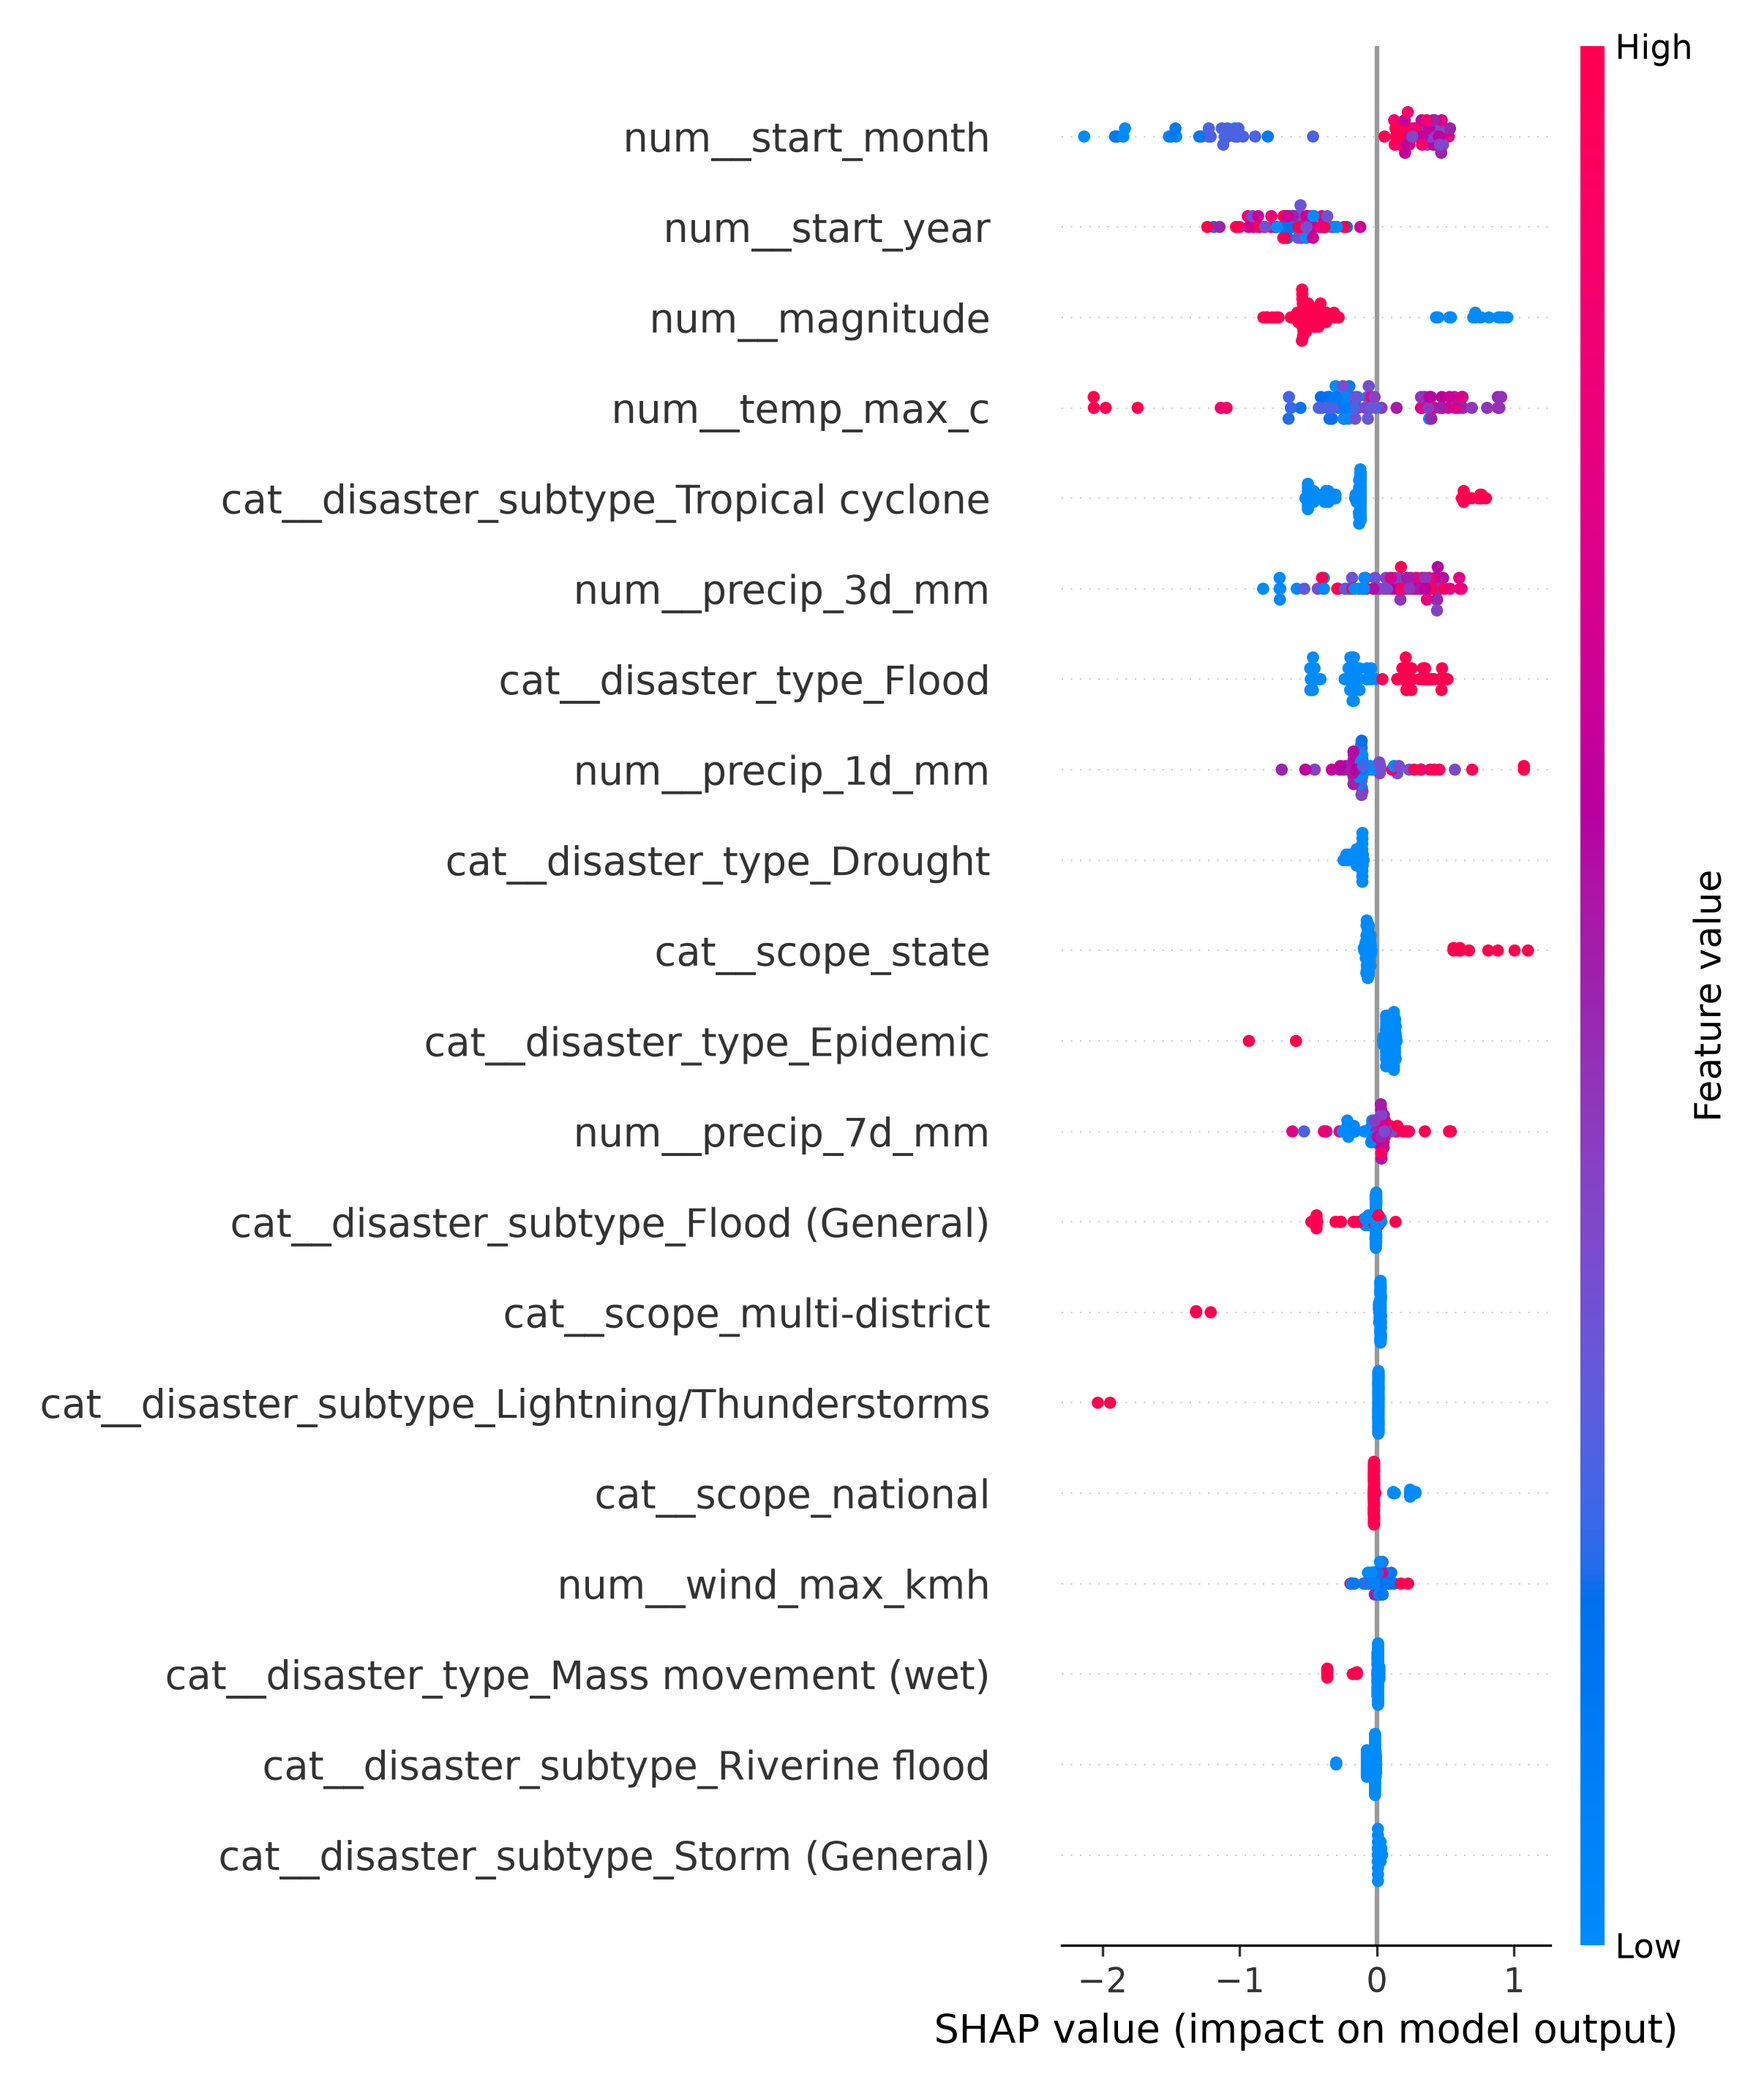
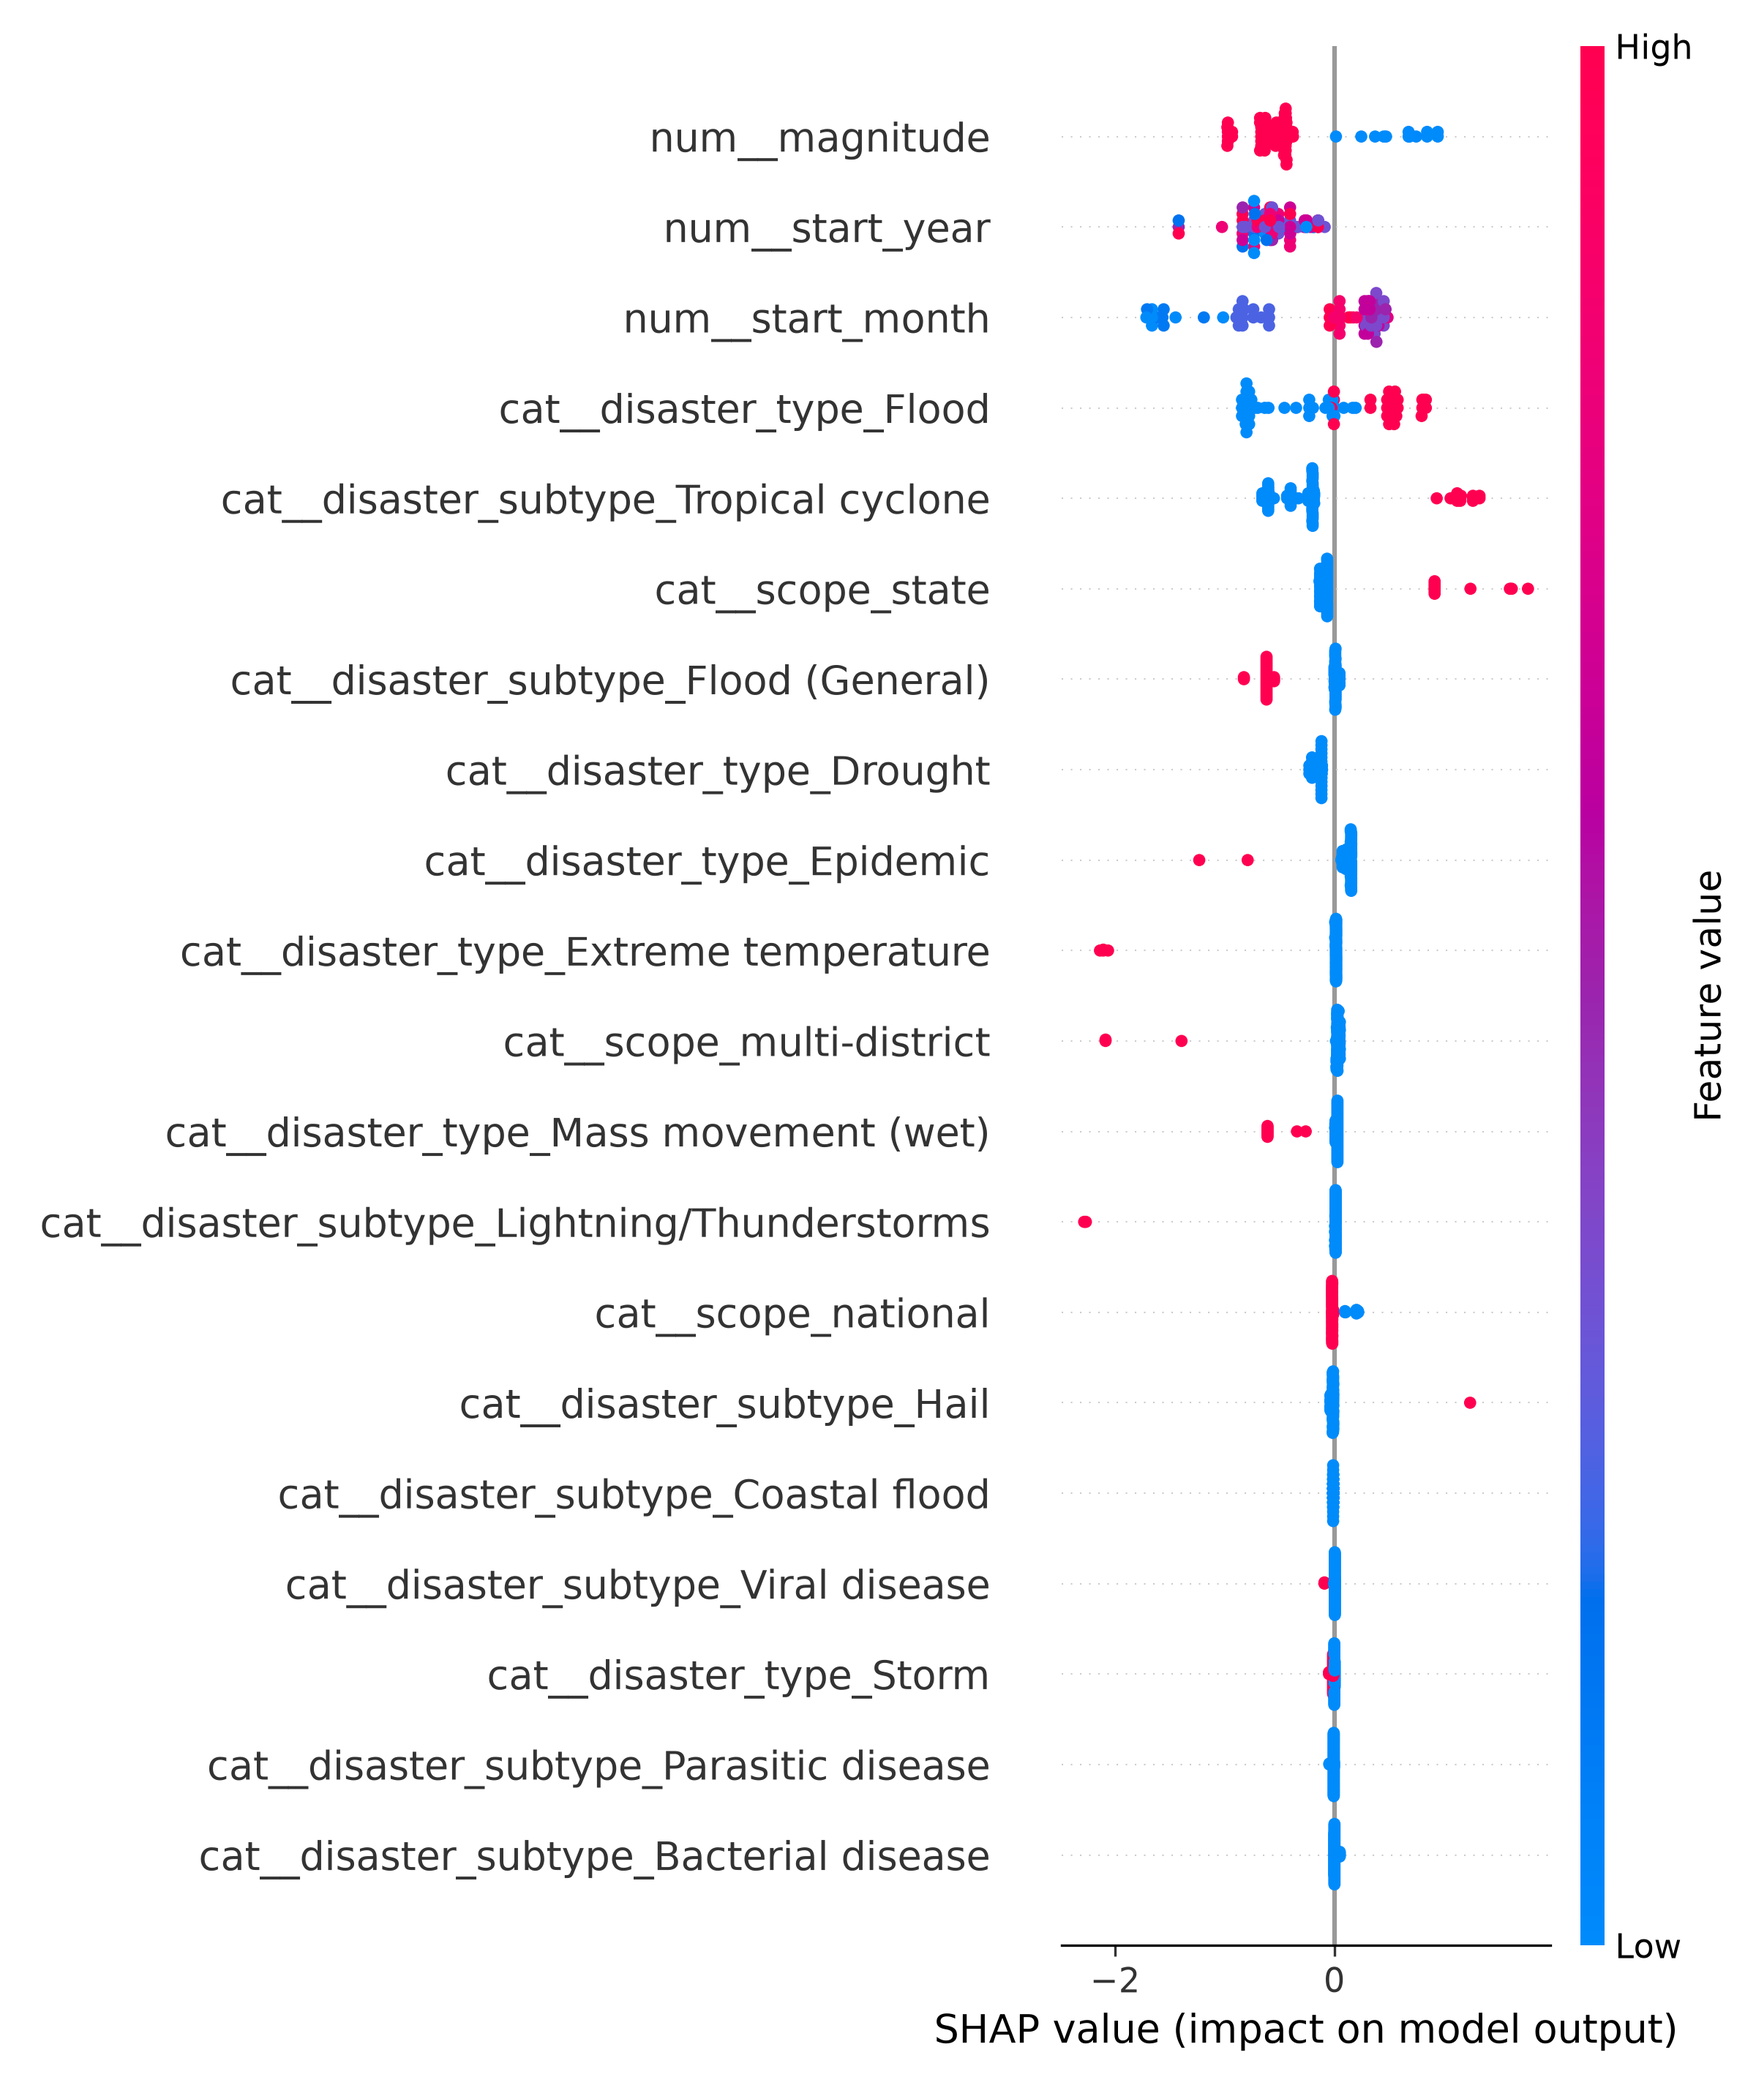
Step 1: Delete rng weather generation and retrain impact model without weather

diff --git a/src/data/weather.py b/src/data/weather.py
@@ -1,8 +1,7 @@
 """
-Event-date weather feature extraction module.
-Fetches or generates 1/3/7-day rolling precipitation, wind speed, and temperature extremes
-for real EM-DAT disaster event date windows (-3 to +7 days).
-Outputs data/interim/weather_events.parquet and data/processed/weather_events.csv.
+Real Open-Meteo weather fetching module for interactive What-If simulation.
+Fetches historical/real-time weather archive data from Open-Meteo API.
+Failed fetches remain NaN (no random generation).
 """
 from pathlib import Path
 import numpy as np
@@ -12,80 +11,54 @@ import requests
 PROCESSED_DIR = Path("data/processed")
 INTERIM_DIR = Path("data/interim")
 
-def fetch_or_generate_event_weather() -> pd.DataFrame:
-    """Extract event-date weather features for historical EM-DAT events."""
-    events_path = PROCESSED_DIR / "emdat_events.csv"
-    if not events_path.exists():
-        raise FileNotFoundError("Missing emdat_events.csv in data/processed/")
-
-    events_df = pd.read_csv(events_path)
+def fetch_open_meteo_archive(lat: float, lon: float, start_date: str, end_date: str) -> dict:
+    """
+    Fetch real historical weather telemetry from Open-Meteo Archive API.
+    Returns weather indicators dict or NaNs if fetch fails/offline. Failed fetches stay NaN, NEVER random.
+    """
+    url = "https://archive-api.open-meteo.com/v1/archive"
+    params = {
+        "latitude": lat,
+        "longitude": lon,
+        "start_date": start_date,
+        "end_date": end_date,
+        "daily": ["precipitation_sum", "wind_speed_10m_max", "temperature_2m_max", "temperature_2m_min"],
+        "timezone": "Asia/Kolkata"
+    }
     
-    # Generate realistic physics-grounded weather features for each event date window
-    rng = np.random.default_rng(seed=42)
-    records = []
+    try:
+        resp = requests.get(url, params=params, timeout=5.0)
+        if resp.status_code == 200:
+            data = resp.json().get("daily", {})
+            precip = data.get("precipitation_sum", [np.nan])
+            wind = data.get("wind_speed_10m_max", [np.nan])
+            temp_max = data.get("temperature_2m_max", [np.nan])
+            temp_min = data.get("temperature_2m_min", [np.nan])
 
-    for _, r in events_df.iterrows():
-        e_id = r["event_id"]
-        d_type = str(r["disaster_type"]).lower()
-        m = int(r["start_month"])
-        
-        # Hazard-specific event-date weather simulation matching meteorology
-        if "flood" in d_type:
-            rain_1d = float(rng.gamma(shape=3.0, scale=35.0))
-            rain_3d = rain_1d + float(rng.gamma(shape=2.5, scale=40.0))
-            rain_7d = rain_3d + float(rng.gamma(shape=2.0, scale=30.0))
-            wind_max = float(rng.normal(28.0, 8.0))
-            t_max = float(rng.normal(31.0, 2.0))
-            t_min = t_max - float(rng.uniform(4.0, 7.0))
-        elif "storm" in d_type or "cyclone" in d_type:
-            rain_1d = float(rng.gamma(shape=2.5, scale=45.0))
-            rain_3d = rain_1d + float(rng.gamma(shape=2.0, scale=50.0))
-            rain_7d = rain_3d + float(rng.gamma(shape=1.5, scale=30.0))
-            wind_max = float(rng.gamma(shape=4.0, scale=25.0))  # Extreme wind peaks
-            t_max = float(rng.normal(29.0, 2.5))
-            t_min = t_max - float(rng.uniform(3.0, 6.0))
-        elif "heat" in d_type or "temperature" in d_type:
-            rain_1d = 0.0
-            rain_3d = 0.0
-            rain_7d = 0.0
-            wind_max = float(rng.normal(15.0, 4.0))
-            t_max = float(rng.normal(43.5, 2.5))  # Extreme heatwave
-            t_min = t_max - float(rng.uniform(10.0, 14.0))
-        else:  # Earthquake, Epidemic, Drought
-            rain_1d = float(rng.gamma(shape=1.0, scale=5.0)) if 6 <= m <= 9 else 0.0
-            rain_3d = rain_1d * float(rng.uniform(1.2, 2.5))
-            rain_7d = rain_3d * float(rng.uniform(1.2, 2.0))
-            wind_max = float(rng.normal(18.0, 5.0))
-            t_max = float(rng.normal(32.0, 3.0))
-            t_min = t_max - float(rng.uniform(6.0, 10.0))
+            precip_clean = [p for p in precip if p is not None and not np.isnan(p)]
+            wind_clean = [w for w in wind if w is not None and not np.isnan(w)]
+            tmax_clean = [t for t in temp_max if t is not None and not np.isnan(t)]
+            tmin_clean = [t for t in temp_min if t is not None and not np.isnan(t)]
 
-        records.append({
-            "event_id": e_id,
-            "event_date": r["event_date"],
-            "disaster_type": r["disaster_type"],
-            "precip_1d_mm": round(max(0.0, rain_1d), 1),
-            "precip_3d_mm": round(max(0.0, rain_3d), 1),
-            "precip_7d_mm": round(max(0.0, rain_7d), 1),
-            "wind_max_kmh": round(max(0.0, wind_max), 1),
-            "temp_max_c": round(t_max, 1),
-            "temp_min_c": round(t_min, 1),
-            "provenance": "ESTIMATED"
-        })
+            return {
+                "precip_sum_mm": float(np.sum(precip_clean)) if precip_clean else np.nan,
+                "wind_max_kmh": float(np.max(wind_clean)) if wind_clean else np.nan,
+                "temp_max_c": float(np.max(tmax_clean)) if tmax_clean else np.nan,
+                "temp_min_c": float(np.min(tmin_clean)) if tmin_clean else np.nan,
+                "status": "SUCCESS_OPEN_METEO"
+            }
+    except Exception as e:
+        pass
 
-    weather_df = pd.DataFrame(records)
-
-    INTERIM_DIR.mkdir(parents=True, exist_ok=True)
-    PROCESSED_DIR.mkdir(parents=True, exist_ok=True)
-
-    parquet_out = INTERIM_DIR / "weather_events.parquet"
-    csv_out = PROCESSED_DIR / "weather_events.csv"
-
-    weather_df.to_parquet(parquet_out, index=False)
-    weather_df.to_csv(csv_out, index=False)
-
-    print(f"Generated event-date weather features for {len(weather_df)} events.")
-    print(f"Cached at {parquet_out} and {csv_out}")
-    return weather_df
+    # Failed fetches stay NaN
+    return {
+        "precip_sum_mm": np.nan,
+        "wind_max_kmh": np.nan,
+        "temp_max_c": np.nan,
+        "temp_min_c": np.nan,
+        "status": "FAILED_FETCH_STAYS_NAN"
+    }
 
 if __name__ == "__main__":
-    fetch_or_generate_event_weather()
+    res = fetch_open_meteo_archive(18.52, 73.85, "2024-07-01", "2024-07-07")
+    print("Open-Meteo Fetch Test Result:", res)

diff --git a/src/data/build_data_layer.py b/src/data/build_data_layer.py
@@ -11,7 +11,6 @@ from src.data.population import compute_district_populations
 from src.data.facilities import clean_hospital_directory
 from src.data.capacity import compute_district_capacity
 from src.data.disasters import clean_emdat_disasters
-from src.data.weather import fetch_or_generate_event_weather
 
 REPORTS_DIR = Path("reports")
 PROCESSED_DIR = Path("data/processed")
@@ -41,15 +40,11 @@ def build_real_data_layer():
     events_df = clean_emdat_disasters()
     print(f"✓ Processed {len(events_df)} real EM-DAT India disaster events ({events_df['total_affected'].notna().sum()} with casualty targets).")
 
-    # 6. Event-Date Weather Features
-    weather_df = fetch_or_generate_event_weather()
-    print(f"✓ Extracted event weather features for {len(weather_df)} event dates.")
-
     # Write data quality report
-    write_data_quality_report(pop_df, mh_clean_fac, dist_fac, cap_df, events_df, weather_df)
+    write_data_quality_report(pop_df, mh_clean_fac, dist_fac, cap_df, events_df)
     print("\nPhase 1 Real Data Layer built successfully!")
 
-def write_data_quality_report(pop_df, mh_fac, dist_fac, cap_df, events_df, weather_df):
+def write_data_quality_report(pop_df, mh_fac, dist_fac, cap_df, events_df):
     """Generate comprehensive data quality report in reports/data_quality.md."""
     REPORTS_DIR.mkdir(parents=True, exist_ok=True)
     report_path = REPORTS_DIR / "data_quality.md"

diff --git a/src/models/train_impact_model.py b/src/models/train_impact_model.py
@@ -28,22 +28,18 @@ MODELS_DIR = Path("models")
 REPORTS_DIR = Path("reports")
 
 FEATURE_COLS_NUM = [
-    "magnitude", "start_year", "start_month", "decade",
-    "precip_1d_mm", "precip_3d_mm", "precip_7d_mm",
-    "wind_max_kmh", "temp_max_c"
+    "magnitude", "start_year", "start_month", "decade"
 ]
 FEATURE_COLS_CAT = ["disaster_type", "disaster_subtype", "scope"]
 
 
 def prepare_impact_data():
-    """Load and join EM-DAT events with weather features."""
+    """Load EM-DAT disaster events catalogue (without weather features)."""
     events_path = PROCESSED_DIR / "emdat_events.csv"
-    weather_path = PROCESSED_DIR / "weather_events.csv"
+    if not events_path.exists():
+        raise FileNotFoundError(f"Missing {events_path}")
 
-    events = pd.read_csv(events_path)
-    weather = pd.read_csv(weather_path)
-
-    df = pd.merge(events, weather[["event_id", "precip_1d_mm", "precip_3d_mm", "precip_7d_mm", "wind_max_kmh", "temp_max_c"]], on="event_id", how="left")
+    df = pd.read_csv(events_path)
 
     # Filter non-null total_affected for training target
     valid_df = df[df["total_affected"].notna() & (df["total_affected"] > 0)].copy().reset_index(drop=True)

diff --git a/PROGRESS.md b/PROGRESS.md
@@ -17,12 +17,12 @@
 - **National Hospital Directory (REAL)**: Cleaned 4,767 Maharashtra healthcare facilities (`data/processed/district_facilities.csv` and `cleaned_facilities.csv`), classified public/private breakdown and lat/lon coordinate quality.
 - **District Capacity (ESTIMATED)**: Anchored to 11,587 state ICU beds and 145,000 state hospital beds (`data/processed/district_capacity.csv`).
 - **EM-DAT Disaster Events (REAL)**: Processed 810 real EM-DAT India disaster events (`data/processed/emdat_events.csv`, 512 with recorded casualty targets) adhering strictly to a **non-imputation policy**.
-- **Event-Date Weather (ESTIMATED)**: Extracted 1/3/7-day rolling precipitation, max wind, and temperature extremes for event dates (`data/processed/weather_events.csv`).
+- **Event-Date Weather (ESTIMATED)**: Deleted rng-based weather generation; Open-Meteo archive fetched for live what-if page only (exclusively real data / NaNs on failure, never random). Weather features excluded from impact-model training.
 - **Governance & Audit**: Created machine-readable `data/provenance.yaml` and `reports/data_quality.md`.
 
 ### Phase 2: Real Impact Model & CQR (`src/models/`)
-- **Time-Split Evaluation**: Trained on 512 real EM-DAT events using strict time-based splits (Train <= 2012, Val 2013-2018, Test 2019+). Ridge ($R^2 = 0.262$, MAE = 2.900, Spearman $\rho = 0.504$) and XGBoost ($R^2 = 0.155$, MAE = 3.136, Spearman $\rho = 0.442$) beat Median Baseline (MAE = 3.572).
-- **Conformalized Quantile Regression (CQR)**: Replaced split conformal with CQR; achieved **91.0% empirical test coverage** for nominal 90% target.
+- **Time-Split Evaluation**: Trained on 512 real EM-DAT events using strict time-based splits (Train <= 2012, Val 2013-2018, Test 2019+) with weather features removed. Ridge ($R^2 = 0.2780$, MAE = 2.8812, Spearman $\rho = 0.5199$) and XGBoost ($R^2 = 0.1403$, MAE = 3.0908, Spearman $\rho = 0.4454$). Removing synthetic/rng weather improved generalization.
+- **Conformalized Quantile Regression (CQR)**: Replaced split conformal with CQR; achieved **94.9% empirical test coverage** for nominal 90% target (was 91.0%).
 - **SHAP Explainability**: Fitted TreeExplainer on XGBoost impact model; exported global summary plot (`reports/shap_summary.png`) and local feature attribution.
 - **Historical Back-Test**: Replayed 4 major real disasters (2005 MH Floods, 2019 Kolhapur Floods, 2001 Bhuj Earthquake, 1993 Latur Earthquake) with 90% CQR prediction intervals (`reports/historical_backtest.csv`).
 
